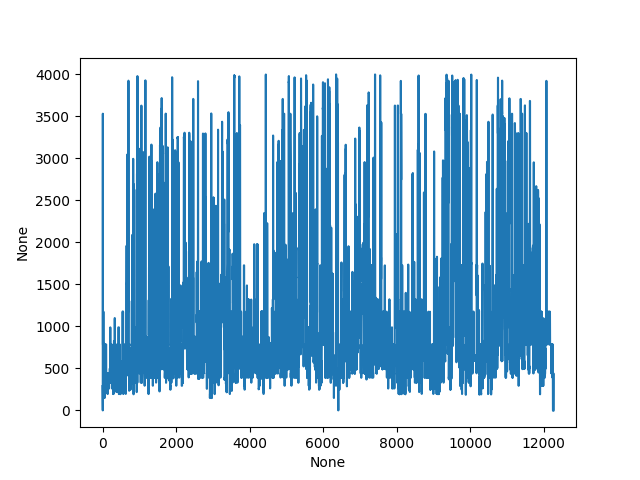
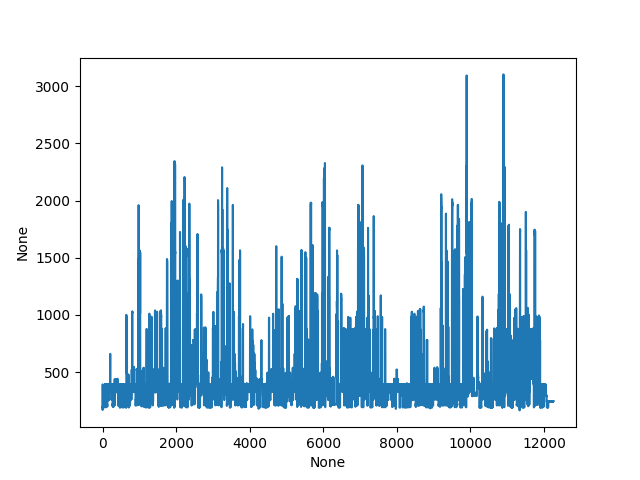
fix output with max magnitude pitch

diff --git a/librosa_demo.py b/librosa_demo.py
@@ -13,8 +13,7 @@ def main():
 	audio_file = 'data/Audio/LizNelson_Rainfall/' + audio_name + '.wav'
 	result_file = 'data/' + audio_name + '.csv'
 	raw_pitch, processed_pitch = baseline_tracking(audio_file, result_file)
-	pitch_plot(raw_pitch) # pass in input as needed
-
+	pitch_plot(processed_pitch) # pass in input as needed
 
 def extract_pitch_max(pitches, magnitudes, timerange):
 	new_pitches = []
@@ -93,7 +92,6 @@ def pitch_plot(pitches):
 	# 	y.extend(notes_grp)
 	# plt.plot(x, y, label='time step (x) vs frequency (y)')
 
-
 	def plot(vector, name, xlabel=None, ylabel=None):
 	    plt.figure()
 	    plt.plot(vector)
@@ -115,16 +113,7 @@ def pitch_plot(pitches):
 	        y=np.convolve(w/w.sum(),s,mode='same')
 	        return y[window_len:-window_len+1]
 
-	def extract_max_plot(pitches, shape):
-	    new_pitches = []
-	    for i in range(0, shape[1]):
-	        new_pitches.append(np.max(pitches[:,i]))
-	    return new_pitches
-
-
 	shape = np.shape(pitches)
-
-	pitches = extract_max_plot(pitches, shape)
 
 	pitches1 = smooth(pitches,window_len=10)
 	pitches2 = smooth(pitches,window_len=20)
